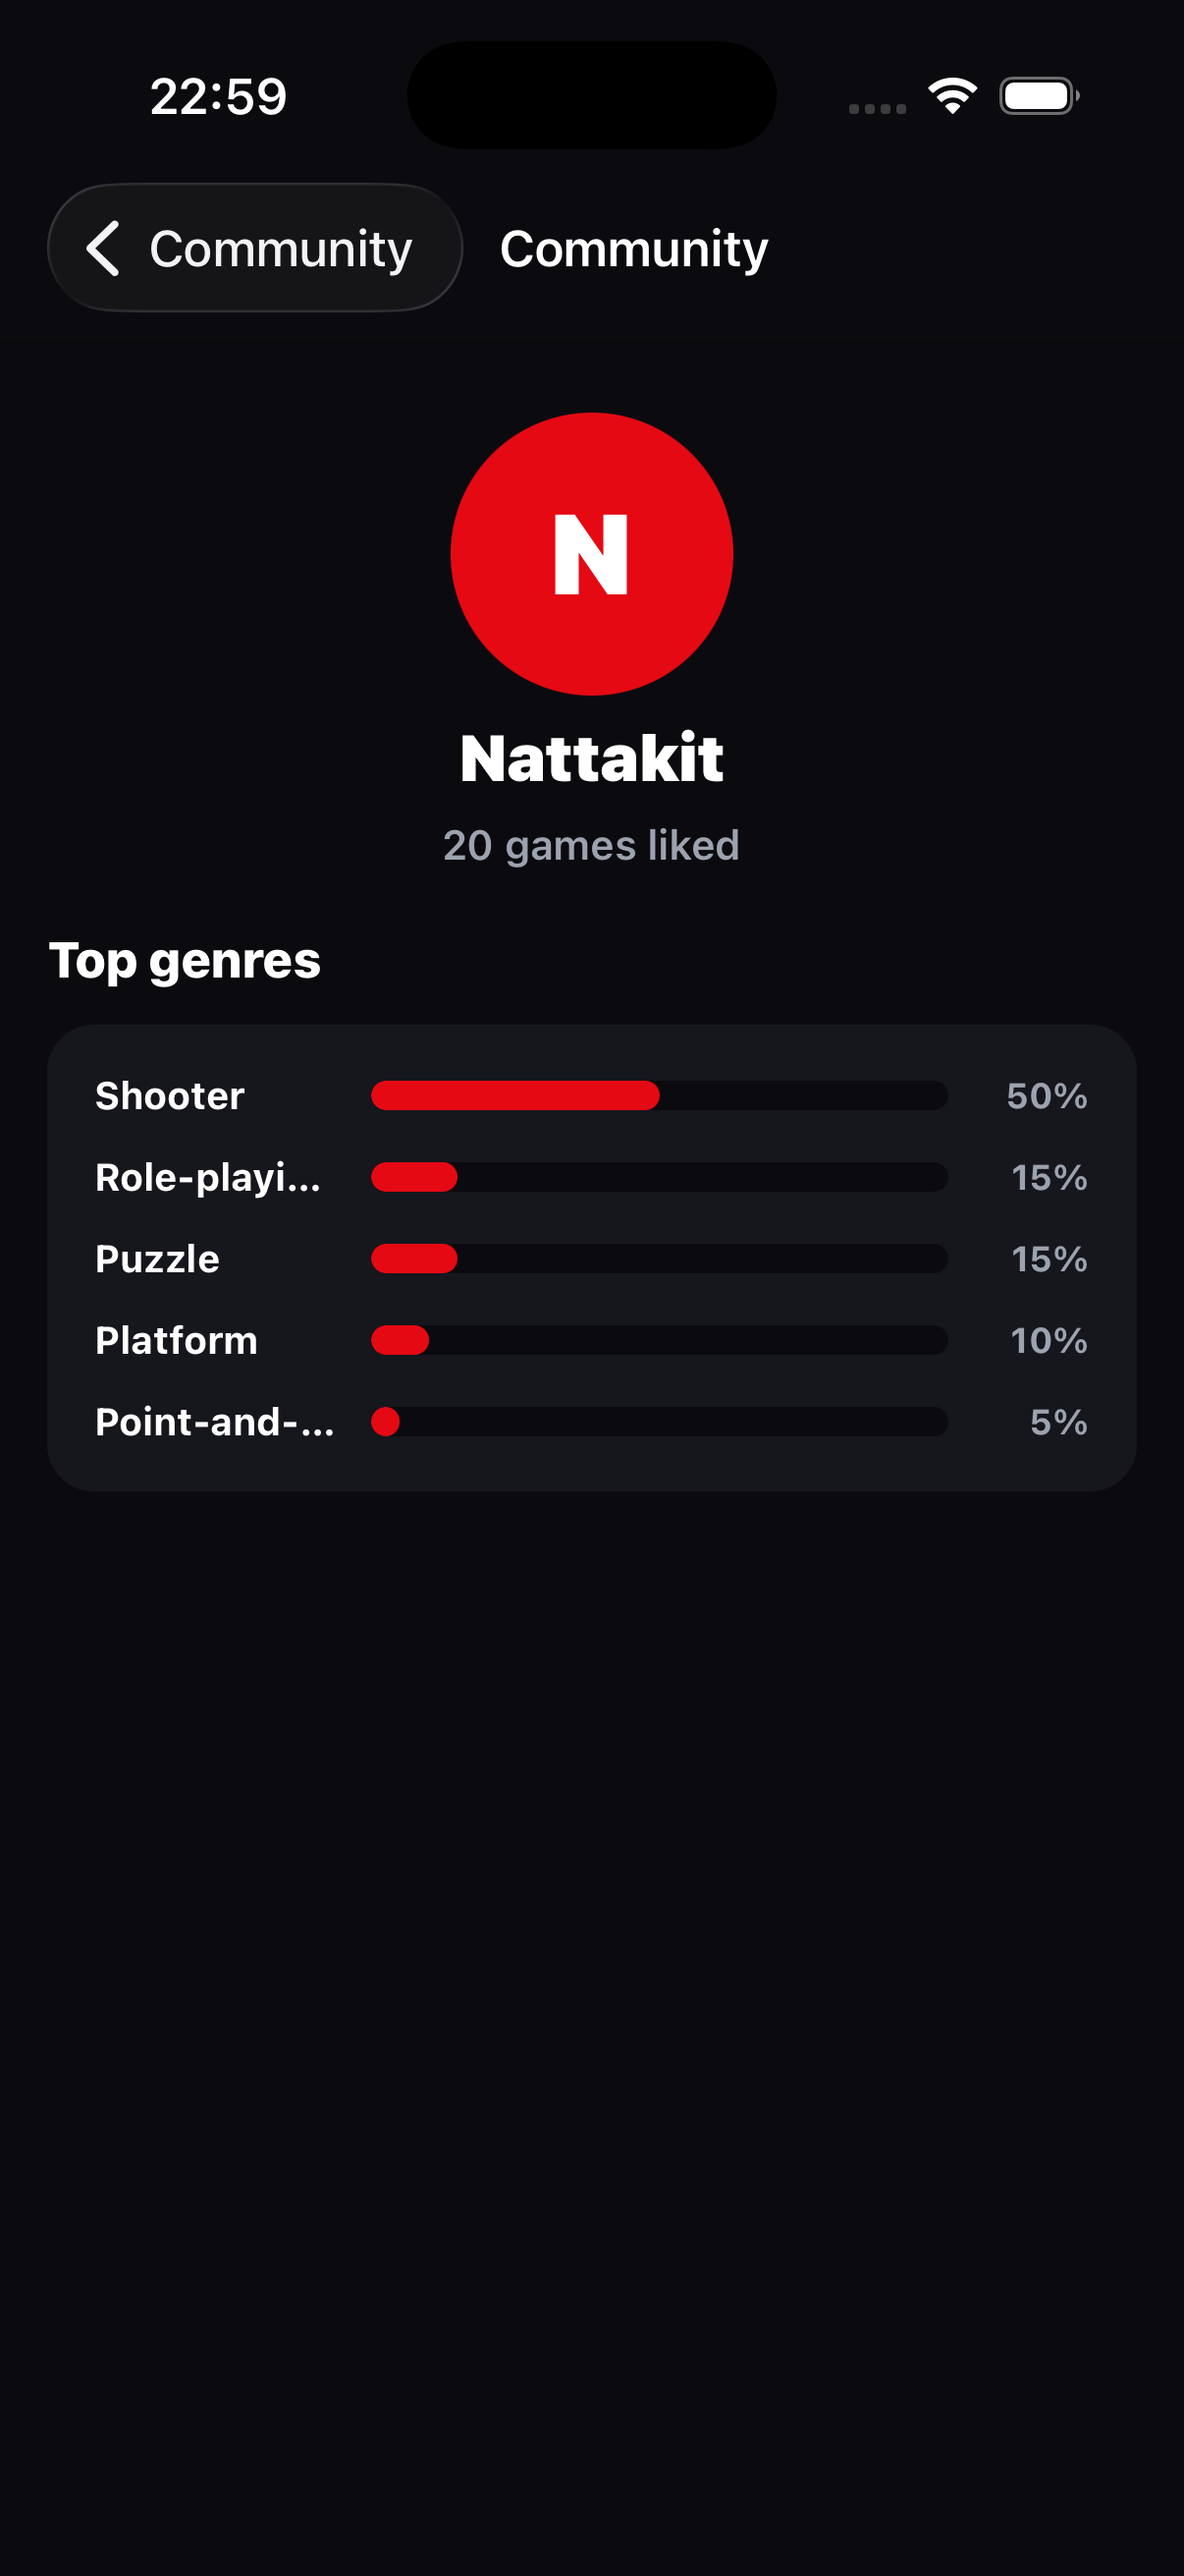
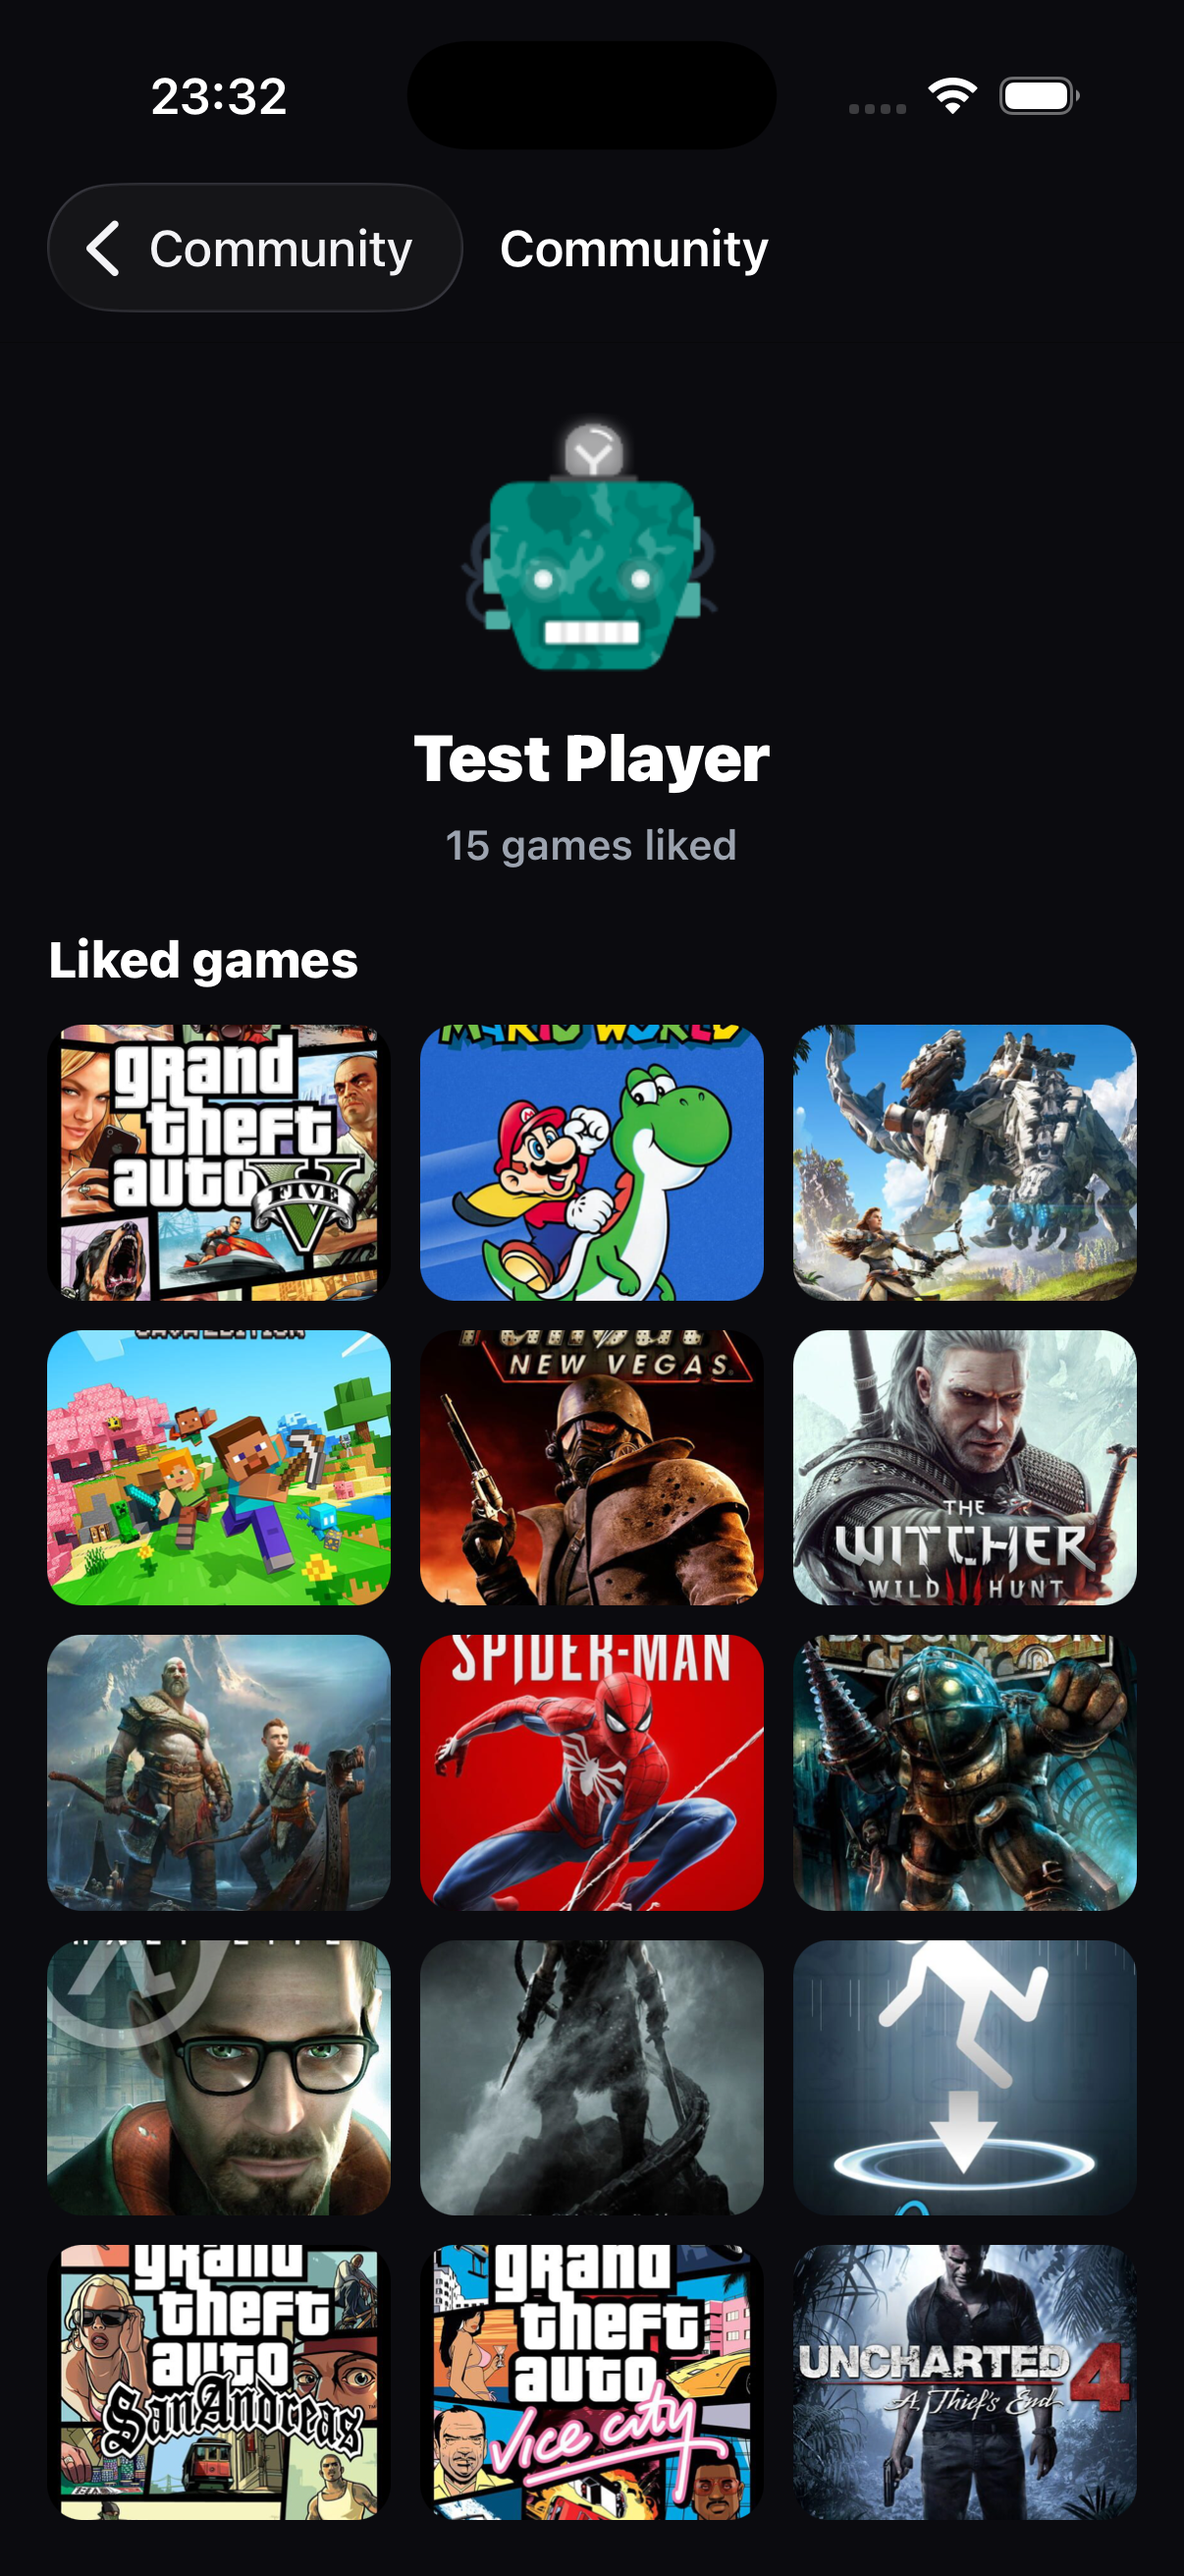
feat(community): show liked games on public profile with a privacy toggle
- public profile now renders a poster grid of the player's liked games (tappable to detail)
- new per-user privacy setting 'Show liked games on profile' (Settings > Content), default on
- profile mirror writes likedGames (up to 24) only when the toggle is on; off writes an
  empty list so viewers see just the count + taste, never the game list
- types: UserProfile.showLikedGames, PublicProfile.likedGames (PublicGame); persisted via
  updateProfileFields; en/th strings
- refresh gallery shots (public profile grid, settings toggle)

diff --git a/app/community/[uid].tsx b/app/community/[uid].tsx
@@ -2,17 +2,21 @@
  * Community — a single player's public profile (avatar, name, liked count, taste chart).
  * Read-only, guest-viewable. getPublicProfile returns null on missing/unreachable data.
  */
-import { useLocalSearchParams } from 'expo-router';
+import { Image } from 'expo-image';
+import { router, useLocalSearchParams } from 'expo-router';
 import { useEffect, useState } from 'react';
-import { ActivityIndicator, ScrollView, StyleSheet, Text, View } from 'react-native';
+import { ActivityIndicator, Dimensions, Pressable, ScrollView, StyleSheet, Text, View } from 'react-native';
 
 import { Avatar } from '@/components/Avatar';
 import { EmptyState } from '@/components/EmptyState';
+import { gameImage } from '@/components/game-image';
 import { Colors } from '@/constants/theme';
 import { useColorScheme } from '@/hooks/use-color-scheme';
 import { getPublicProfile } from '@/src/firebase/profiles';
 import { useT } from '@/src/i18n';
 import type { PublicProfile } from '@/src/types/user';
+
+const POSTER_W = (Dimensions.get('window').width - 16 * 2 - 10 * 2) / 3;
 
 export default function CommunityProfileScreen() {
   const { uid } = useLocalSearchParams<{ uid: string }>();
@@ -67,6 +71,30 @@ export default function CommunityProfileScreen() {
           {t('community.gamesLiked', { n: profile.likedCount })}
         </Text>
       </View>
+
+      {profile.likedGames.length > 0 ? (
+        <View style={styles.section}>
+          <Text style={[styles.sectionTitle, { color: c.text }]}>{t('community.likedTitle')}</Text>
+          <View style={styles.grid}>
+            {profile.likedGames.map((g) => {
+              const uri = gameImage(g.image);
+              return (
+                <Pressable
+                  key={g.id}
+                  onPress={() => router.push(`/game/${g.id}`)}
+                  style={({ pressed }) => [styles.poster, { backgroundColor: c.surface, opacity: pressed ? 0.75 : 1 }]}
+                >
+                  {uri ? (
+                    <Image source={{ uri }} style={StyleSheet.absoluteFill} contentFit="cover" transition={200} cachePolicy="memory-disk" />
+                  ) : (
+                    <Text style={[styles.posterFallback, { color: c.muted }]} numberOfLines={3}>{g.name}</Text>
+                  )}
+                </Pressable>
+              );
+            })}
+          </View>
+        </View>
+      ) : null}
 
       {topGenres.length > 0 ? (
         <View style={styles.section}>
@@ -124,4 +152,15 @@ const styles = StyleSheet.create({
   chips: { flexDirection: 'row', flexWrap: 'wrap', gap: 8 },
   chip: { paddingHorizontal: 12, paddingVertical: 6, borderRadius: 999 },
   chipText: { fontSize: 13, fontWeight: '600' },
+  grid: { flexDirection: 'row', flexWrap: 'wrap', gap: 10 },
+  poster: {
+    width: POSTER_W,
+    aspectRatio: 2 / 3,
+    borderRadius: 12,
+    overflow: 'hidden',
+    alignItems: 'center',
+    justifyContent: 'center',
+    padding: 6,
+  },
+  posterFallback: { fontSize: 11, fontWeight: '600', textAlign: 'center' },
 });

diff --git a/src/firebase/profiles.ts b/src/firebase/profiles.ts
@@ -16,16 +16,21 @@ import {
   serverTimestamp,
   setDoc,
 } from 'firebase/firestore';
-import type { PublicProfile } from '../types/user';
+import type { PublicGame, PublicProfile } from '../types/user';
 import { auth, db } from './config';
 
-export type ProfileFields = { displayName?: string; avatar?: string | null };
+export type ProfileFields = {
+  displayName?: string;
+  avatar?: string | null;
+  showLikedGames?: boolean;
+};
 
 /** Patch the private profile map (merge) + mirror displayName onto the Firebase Auth user. */
 export async function updateProfileFields(uid: string, fields: ProfileFields): Promise<void> {
   const patch: Record<string, unknown> = {};
   if (fields.displayName !== undefined) patch.displayName = fields.displayName;
   if (fields.avatar !== undefined) patch.avatar = fields.avatar;
+  if (fields.showLikedGames !== undefined) patch.showLikedGames = fields.showLikedGames;
   await setDoc(doc(db, 'users', uid), { profile: patch }, { merge: true });
   if (fields.displayName && auth.currentUser) {
     await fbUpdateProfile(auth.currentUser, { displayName: fields.displayName }).catch(() => {});
@@ -56,6 +61,7 @@ const toPublic = (data: Record<string, unknown>): PublicProfile | null => {
     topGenres: Array.isArray(p.topGenres)
       ? (p.topGenres as { name: string; percent: number }[])
       : [],
+    likedGames: Array.isArray(p.likedGames) ? (p.likedGames as PublicGame[]) : [],
   };
 };
 

diff --git a/app/settings/index.tsx b/app/settings/index.tsx
@@ -23,7 +23,7 @@ export default function SettingsIndex() {
   const router = useRouter();
   const t = useT();
   const tutorial = useFirstRun(TUTORIAL_KEY);
-  const { isGuest, signOut } = useAuth();
+  const { isGuest, signOut, profile, updateProfile } = useAuth();
 
   const confirmSignOut = () =>
     Alert.alert(t('account.signOutConfirm'), t('account.signOutConfirmBody'), [
@@ -59,7 +59,17 @@ export default function SettingsIndex() {
 
       <Group title={t('settings.groupContent')} color={c.muted}>
         <ToggleRow c={c} icon="eye-off-outline" label={t('settings.hideAdult')} value={hideAdult} onChange={setHideAdult} />
-        <ToggleRow c={c} icon="notifications-outline" label={t('settings.notifyNew')} value={notifyNew} onChange={setNotifyNew} last />
+        <ToggleRow c={c} icon="notifications-outline" label={t('settings.notifyNew')} value={notifyNew} onChange={setNotifyNew} last={isGuest} />
+        {!isGuest ? (
+          <ToggleRow
+            c={c}
+            icon="game-controller-outline"
+            label={t('settings.showLikedGames')}
+            value={profile?.showLikedGames !== false}
+            onChange={(v) => void updateProfile({ showLikedGames: v }).catch(() => {})}
+            last
+          />
+        ) : null}
       </Group>
 
       <Group title={t('settings.groupData')} color={c.muted}>

diff --git a/app/(tabs)/profile.tsx b/app/(tabs)/profile.tsx
@@ -44,6 +44,8 @@ export default function ProfileScreen() {
   const topGenres = dna.topGenres.slice(0, 5);
 
   // Mirror a compact public summary to Firestore for the Community feature (best-effort).
+  // Liked games are only exposed when the user allows it (privacy toggle in Settings).
+  const showLikedGames = profile?.showLikedGames !== false;
   useEffect(() => {
     const uid = user?.uid;
     if (!uid) return;
@@ -53,9 +55,12 @@ export default function ProfileScreen() {
       favoriteGenres: profile?.favoriteGenres ?? [],
       likedCount: liked.length,
       topGenres: topGenres.map((g) => ({ name: g.name, percent: g.percent })),
+      likedGames: showLikedGames
+        ? liked.slice(0, 24).map((g) => ({ id: g.id, name: g.name, image: g.image ?? null }))
+        : [],
     }).catch(() => {});
     // eslint-disable-next-line react-hooks/exhaustive-deps
-  }, [user?.uid, liked.length, displayName, profile?.avatar]);
+  }, [user?.uid, liked.length, displayName, profile?.avatar, showLikedGames]);
 
   // ---- Name edit modal ----
   const [editingName, setEditingName] = useState(false);

diff --git a/src/i18n/th.ts b/src/i18n/th.ts
@@ -214,6 +214,7 @@ export const th = {
     rowAbout: 'เกี่ยวกับ & เครดิต',
     hideAdult: 'ซ่อนเนื้อหาผู้ใหญ่',
     notifyNew: 'แจ้งเตือนเกมใหม่',
+    showLikedGames: 'แสดงเกมที่ชอบบนโปรไฟล์',
     clearCache: 'ล้าง cache รูป',
     cacheClearedTitle: 'ล้าง cache รูปแล้ว',
     cacheClearedBody: 'ลบรูปที่แคชไว้เรียบร้อย',
@@ -270,6 +271,7 @@ export const th = {
     searchPlaceholder: 'ค้นหาผู้เล่น…',
     likedCount: 'ถูกใจ {n}',
     gamesLiked: 'ถูกใจ {n} เกม',
+    likedTitle: 'เกมที่ชอบ',
     tasteTitle: 'แนวที่ชอบ',
     emptyTitle: 'ยังไม่มีผู้เล่น',
     emptySub: 'ผู้เล่นจะปรากฏที่นี่เมื่อมีคนสร้างคลังเกม',

diff --git a/src/types/user.ts b/src/types/user.ts
@@ -17,7 +17,11 @@ export type UserProfile = {
   language: string; // e.g. 'th-TH'
   theme: ThemePref;
   favoriteGenres: string[]; // IGDB genre names
+  showLikedGames: boolean; // privacy: expose liked games on the public (Community) profile
 };
+
+/** A compact game reference stored on the public profile (cover grid). */
+export type PublicGame = { id: number; name: string; image: string | null };
 
 /** Compact public summary written to users/{uid}.public for the Community feature. */
 export type PublicProfile = {
@@ -27,6 +31,7 @@ export type PublicProfile = {
   favoriteGenres: string[];
   likedCount: number;
   topGenres: { name: string; percent: number }[];
+  likedGames: PublicGame[]; // empty when the user hides them (showLikedGames = false)
 };
 
 export type Subscription = {

diff --git a/src/i18n/en.ts b/src/i18n/en.ts
@@ -214,6 +214,7 @@ export const en = {
     rowAbout: 'About & credits',
     hideAdult: 'Hide adult content',
     notifyNew: 'New game alerts',
+    showLikedGames: 'Show liked games on profile',
     clearCache: 'Clear image cache',
     cacheClearedTitle: 'Image cache cleared',
     cacheClearedBody: 'Cached images were removed',
@@ -270,6 +271,7 @@ export const en = {
     searchPlaceholder: 'Search players…',
     likedCount: '{n} liked',
     gamesLiked: '{n} games liked',
+    likedTitle: 'Liked games',
     tasteTitle: 'Top genres',
     emptyTitle: 'No players yet',
     emptySub: 'Players show up here as people build their library',

diff --git a/src/firebase/auth.ts b/src/firebase/auth.ts
@@ -26,6 +26,7 @@ export function defaultProfile(user: User, displayName?: string): UserProfile {
     language: 'en',
     theme: 'system',
     favoriteGenres: [],
+    showLikedGames: true,
   };
 }
 
